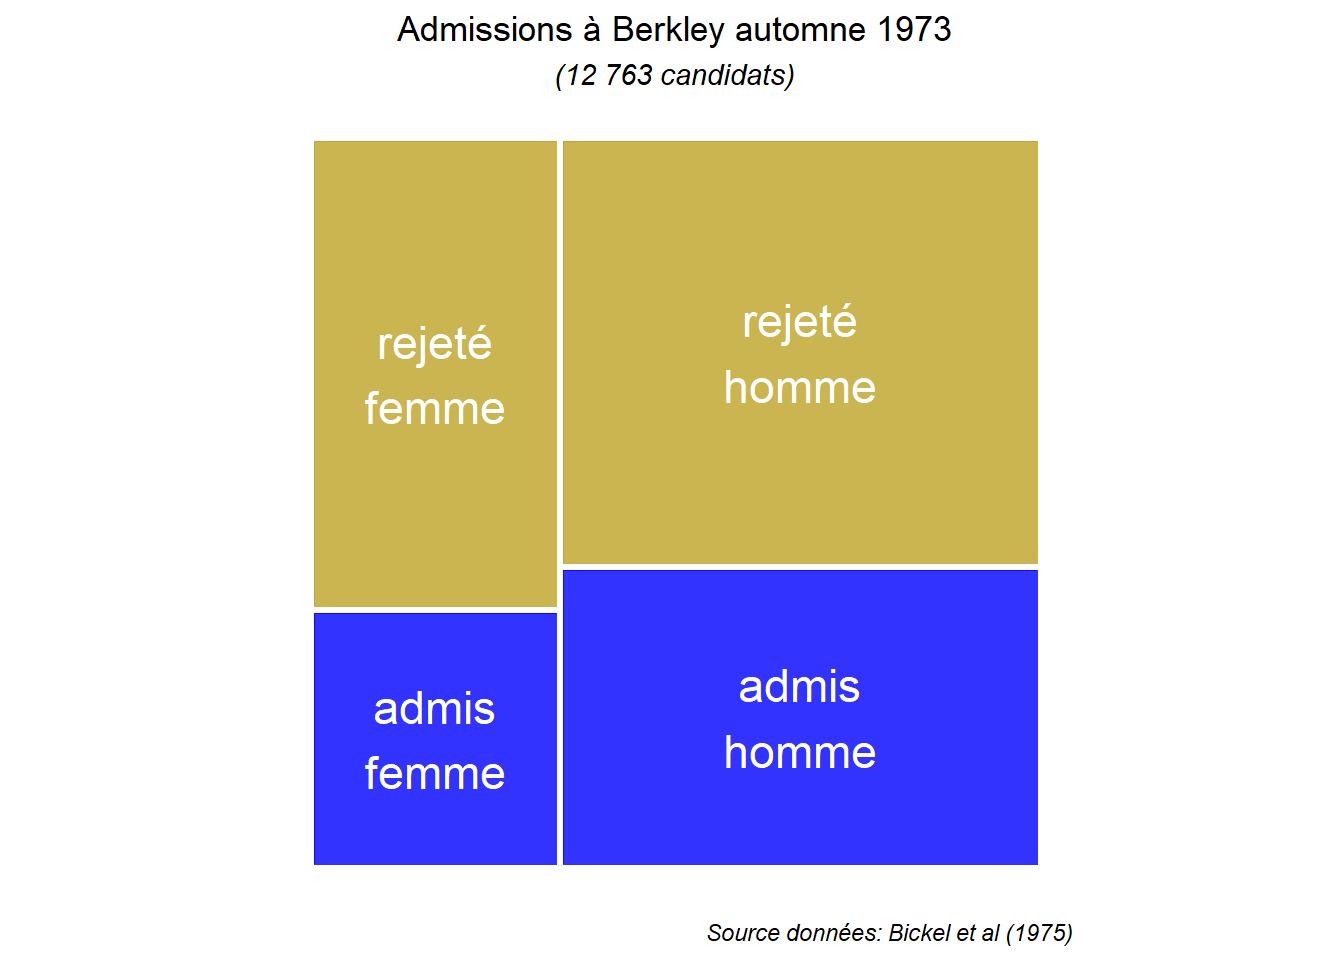
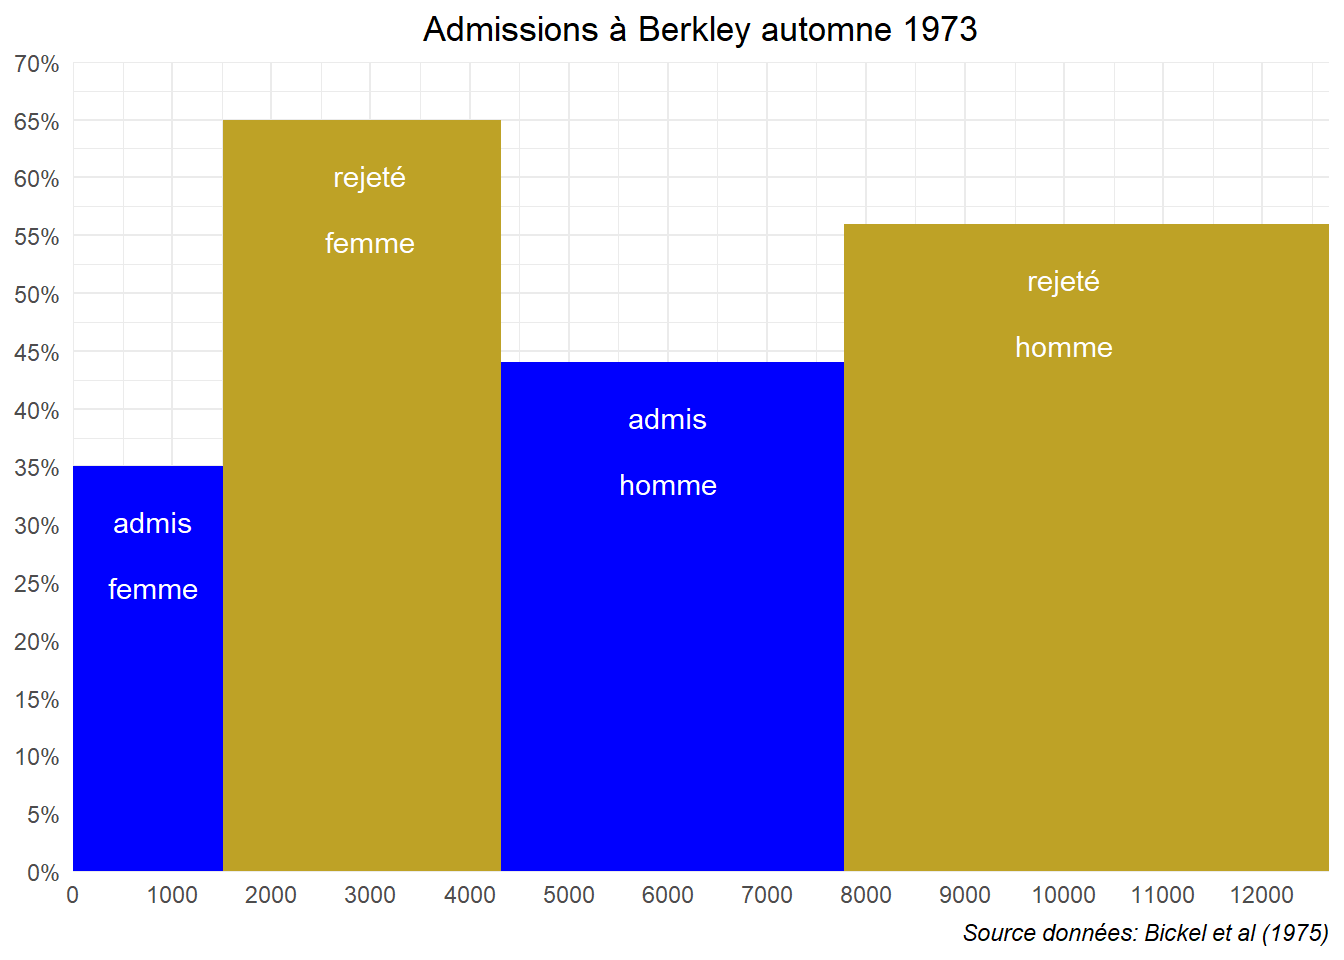
marimekko add1

diff --git a/content/post/2022-01-07-le-diagramme-en-mosaic-et-le-graphe-marimekko-gt6/index.html b/content/post/2022-01-07-le-diagramme-en-mosaic-et-le-graphe-marimekko-gt6/index.html
@@ -21,6 +21,7 @@ tags:
 <p>Tout ceci est un peu abstrait… Prenons un exemple d’utilisation de ce type de graphe pour y voir plus clair et profitons-en pour comparer le rendu avec celui des différentes formes de diagramme à bâtons. Mais, avant de nous lancer, chargeons quelques packages utiles pour la suite.</p>
 <pre class="r"><code>library(tidyverse)
 library(patchwork)
+library(scales)
 library(rvest)
 library(ggmosaic)</code></pre>
 <p>Notez la présence de deux packages que nous n’avons pas encore utilisé rvest et ggmosaic. Le premier sert à scrapper des informations sur internet. Le second, comme son nom l’indique, permet intégrer un <strong>geom_</strong> supplémentaire dans ggplot pour réaliser facilement un diagramme en mosaïque.</p>
@@ -39,16 +40,16 @@ dat1</code></pre>
 <p>L’information obtenue doit être retravailler pour permettre son traitement. Vous voudrions simplement une data frame avec une colonne pour le sexe des candidats et une pour leur statut (admis ou rejeté). Utilisons la fonction <strong>rep()</strong> pour générer les observations correspondant et vérifions si le résultat est conforme au tableau que nous avons scrappé avec les fonctions <strong>table()</strong> et <strong>addmargins()</strong>.</p>
 <pre class="r"><code>dat1&lt;-data.frame(
   sexe=c(rep(&#39;homme&#39;,8442),rep(&#39;femme&#39;,4321)),
-  statut=c(rep(&#39;admis&#39;,round(8442*0.41)),
-                  rep(&#39;rejeté&#39;,round(8442*0.59)),
-                  rep(&#39;admis&#39;,round(4321*0.35)),
-                  rep(&#39;rejeté&#39;,round(4321*0.65))))
+  statut=c(rep(&#39;admis&#39;,round(8442*0.44)),
+           rep(&#39;rejeté&#39;,round(8442*0.56)),
+           rep(&#39;admis&#39;,round(4321*0.35)),
+           rep(&#39;rejeté&#39;,round(4321*0.65))))
 addmargins(table(dat1))</code></pre>
 <pre><code>##        statut
 ## sexe    admis rejeté   Sum
 ##   femme  1512   2809  4321
-##   homme  3461   4981  8442
-##   Sum    4973   7790 12763</code></pre>
+##   homme  3714   4728  8442
+##   Sum    5226   7537 12763</code></pre>
 <p>Maintenant que nous avons nos données, essayons d’illustrer la différence hommes/femmes concernant le taux d’admission à Berkley. Commençons par un diagramme à bâtons juxtaposés. Il s’obtient grâce au <strong>geom_bar()</strong> et l’option <em>position</em> “dodge”. Réalisons également quelques mises en formes de manière obtenir le graphe le plus parlant possible. Retenons notamment les couleurs de l’université (bleu et marron claire) pour nos barres.</p>
 <pre class="r"><code>ggplot(dat1,aes(x=sexe,fill=statut))+
   geom_bar(position=&#39;dodge&#39;)+
@@ -96,6 +97,7 @@ ggplot(dat1,aes(x=sexe,fill=statut))+
        caption=&#39;Source données: Bickel et al (1975)&#39;,
        y=&#39;Effectif&#39;)+
   scale_fill_manual(values=c(&#39;#0000FF&#39;,&#39;#BEA226&#39;))+
+  scale_y_continuous(labels=label_percent(accuracy = NULL))+
   theme_minimal()+
   theme(plot.title = element_text(hjust=0.5),
         plot.caption = element_text(face=&#39;italic&#39;),
@@ -104,7 +106,35 @@ ggplot(dat1,aes(x=sexe,fill=statut))+
         legend.position=&#39;none&#39;)</code></pre>
 <p><img src="{{< blogdown/postref >}}index_files/figure-html/unnamed-chunk-6-1.png" width="672" /></p>
 <p>Cette fois, la différence de taux d’admission est bien mise en évidence. On voit que prés de 35% des candidates sont admises tandis que prés de 40% des candidats sont admis. On perd cependant en partie l’information concernant la taille des groupes hommes/femmes. Il ne reste que les indications textuelles que nous avons ajoutées pour intégrer cette information.</p>
-<p>Un diagramme en mosaïque permet de remédier au problème en mettant en évidence à la fois la différence de tailles en proportion des groupes hommes/femmes et admis/rejeté. Pour le mettre en oeuvre, utilisons le <strong>geom_mosaic()</strong> du package ggmosaic. Indiquons comme esthétique (<strong>aes()</strong>) pour x l’intersection entre statut et sexe. Cela est rendu possible par la fonction <strong>product()</strong>. Indiquons également que nous souhaitons que les différents éléments du graphe soient colorés en fonction de statut (bleu pour les admis et marron pour les rejetés).</p>
+<p>Le diagramme de Marimekko intégre l’information sur les effectifs en faisant varier la largeur des barres en fonction de ceux-ci. Présentons nos données à l’aide de ce type de graphe. Pour ce faire, nous allons utiliser le <strong>geom_rect()</strong> qui permet de tracer des rectangles à partir de l’indication des valeurs minimums et maximums des coordonnées associés pour chaque figure (x et y). Commençons par restructurer la base pour faciliter sa construction.</p>
+<pre class="r"><code>dat1_d&lt;-data.frame(
+  sex= c(&#39;femme&#39;, &#39;femme&#39;,&#39;homme&#39;, &#39;homme&#39;),
+  stat=c(&#39;admis&#39;,&#39;rejeté&#39;,&#39;admis&#39;,&#39;rejeté&#39;),
+  tx_reu = c(0.35, 0.65, 0.44, 0.56),
+  effectif = c(1512, 2809, 3461, 4891))</code></pre>
+<p>Ceci fait, réalisons le graphe.</p>
+<pre class="r"><code>ggplot(dat1_d, aes(fill = stat)) +
+  geom_rect(aes(xmin = cumsum(c(0,effectif[1:3])),
+                xmax = cumsum(effectif),
+                ymin = 0, ymax = tx_reu))+
+  geom_text(aes(label = stat,y=tx_reu,x=c(800,3000,6000,10000)),
+            vjust = 3,colour = &quot;white&quot;)+
+  geom_text(aes(label = sex,y=tx_reu,x=c(800,3000,6000,10000)),
+            vjust = 6,colour = &quot;white&quot;)+
+  scale_x_continuous(breaks = seq(0,13000,1000))+
+  scale_y_continuous(breaks = seq(0,0.70,0.05),limits = c(0,0.7),
+                     labels=label_percent(accuracy = NULL))+
+  scale_fill_manual(values=c(&#39;#0000FF&#39;,&#39;#BEA226&#39;))+
+  labs(title=&#39;Admissions à Berkley automne 1973&#39;,      
+       caption=&#39;Source données: Bickel et al (1975)&#39;)+
+  coord_cartesian(expand=FALSE)+
+  theme_minimal()+
+  theme(plot.title = element_text(hjust=0.5),
+        plot.caption = element_text(face=&#39;italic&#39;),
+        axis.title= element_blank(),
+        legend.position=&#39;none&#39;)</code></pre>
+<p><img src="{{< blogdown/postref >}}index_files/figure-html/unnamed-chunk-8-1.png" width="672" /></p>
+<p>L’ensemble est plus parlant. Un diagramme en mosaïque apparaît encore plus parlant. Il met en évidence à la fois la différence de tailles en proportion des groupes hommes/femmes et admis/rejeté. Pour le mettre en oeuvre, utilisons le <strong>geom_mosaic()</strong> du package ggmosaic. Indiquons comme esthétique (<strong>aes()</strong>) pour x l’intersection entre statut et sexe. Cela est rendu possible par la fonction <strong>product()</strong>. Indiquons également que nous souhaitons que les différents éléments du graphe soient colorés en fonction de statut (bleu pour les admis et marron pour les rejetés).</p>
 <pre class="r"><code>ggplot(dat1) + 
   geom_mosaic(aes(x=product(statut,sexe),fill=statut),position = &#39;identity&#39;)+
   labs(title=&#39;Admissions à Berkley automne 1973&#39;,
@@ -121,7 +151,7 @@ ggplot(dat1,aes(x=sexe,fill=statut))+
 ## Please use `unite()` instead.
 ## This warning is displayed once every 8 hours.
 ## Call `lifecycle::last_lifecycle_warnings()` to see where this warning was generated.</code></pre>
-<p><img src="{{< blogdown/postref >}}index_files/figure-html/unnamed-chunk-7-1.png" width="672" /></p>
+<p><img src="{{< blogdown/postref >}}index_files/figure-html/unnamed-chunk-9-1.png" width="672" /></p>
 <p>Les proportions sont bien rendues dans ce nouveau graphe. On voit clairement que le nombre de femmes candidates représente moins d’un tiers de l’ensemble et qu’elles sont admises à un taux un peu plus élevé que 33% alors que les hommes qui représentent plus des deux tiers de l’ensemble sont admis à un taux supérieur (plus proche des 40%).</p>
 <p>Sans indications chiffrées, le diagramme en mosaïque rend bien compte de la relation entre les deux variables. Comme tout les graphes issus de ggplot, il peut être personnalisé. On peut notamment utiliser <strong>geom_mosaic_text()</strong> pour faire apparaître la valeur des différentes variables à l’intérieur du graphe et non sur les axes.</p>
 <pre class="r"><code>ggplot(dat1) + 
@@ -139,20 +169,20 @@ ggplot(dat1,aes(x=sexe,fill=statut))+
         axis.text = element_blank(),
         axis.ticks = element_blank(),
         legend.position=&#39;none&#39;)</code></pre>
-<p><img src="{{< blogdown/postref >}}index_files/figure-html/unnamed-chunk-8-1.png" width="672" /></p>
+<p><img src="{{< blogdown/postref >}}index_files/figure-html/unnamed-chunk-10-1.png" width="672" /></p>
 <p>Il y a une différence apparente entre les hommes et les femmes concernant l’admission à Berkley. Mais est-elle statistiquement significative? Pour le savoir, procédons à un test de différences de proportions (basé sur un khi2) à l’aide de la fonction <strong>prop.test()</strong>.</p>
 <pre class="r"><code>table(dat1$statut,dat1$sexe) %&gt;% prop.test() </code></pre>
 <pre><code>## 
 ##  2-sample test for equality of proportions with continuity correction
 ## 
 ## data:  .
-## X-squared = 43.091, df = 1, p-value = 5.224e-11
+## X-squared = 95.421, df = 1, p-value &lt; 2.2e-16
 ## alternative hypothesis: two.sided
 ## 95 percent confidence interval:
-##  -0.07336126 -0.03973609
+##  -0.09997492 -0.06676925
 ## sample estimates:
 ##    prop 1    prop 2 
-## 0.3040418 0.3605905</code></pre>
+## 0.2893226 0.3726947</code></pre>
 <p>La p-value est très petite, on rejette donc largement l’hypothèse d’égalité entre les proportions. La différence est statistiquement significative. On pourrait, sur cette base, conclure à une discrimination basée sur les goûts des jury d’admission qui seraient défavorables au femmes. Néanmoins, si on approfondit l’analyse pour prendre en compte les départements dans lesquels les étudiants ont candidaté, on voit que les choses sont différentes.</p>
 <p>Introduisons cette nouvelles variables dans l’analyse. Pour cela, voyons le second tableau de la page wikipedia. Chargeons-le dans R.</p>
 <pre class="r"><code>url&lt;-&quot;https://en.wikipedia.org/wiki/Simpson%27s_paradox&quot;
@@ -209,7 +239,7 @@ addmargins(table(dat2$sexe,dat2$statut))</code></pre>
         axis.title.x = element_blank(),
         axis.title.y = element_blank(),
         legend.position = &#39;none&#39;) </code></pre>
-<p><img src="{{< blogdown/postref >}}index_files/figure-html/unnamed-chunk-12-1.png" width="672" /></p>
+<p><img src="{{< blogdown/postref >}}index_files/figure-html/unnamed-chunk-14-1.png" width="672" /></p>
 <p>Il semble bien que ce soit le cas. On peut donc continuer l’analyse en intégrant notre nouvelle variable.</p>
 <p>Voyons ce que donne le diagramme mosaïque. Cette fois, la déclaration de l’élément principale à représenter (x) comprendra trois variables (statut, sexe et dep) que l’on introduit conjointement avec la fonction <strong>product()</strong>. Indiquons pour faciliter la lecture que nous ferons varier la couleur (fill) en fonction de statut et le niveau de transparence (alpha) de ces couleurs en fonction de sexe. Utilisons l’option <em>divider</em> pour renforcer les séparations verticales et horizontales dans le graphe.</p>
 <pre class="r"><code>ggplot(dat2) + 
@@ -228,7 +258,7 @@ addmargins(table(dat2$sexe,dat2$statut))</code></pre>
         axis.text.x = element_text(angle = 90, hjust = 1,vjust = 0.5,size=10),
         axis.title.y = element_blank(),
         legend.position = &#39;none&#39;) </code></pre>
-<p><img src="{{< blogdown/postref >}}index_files/figure-html/unnamed-chunk-13-1.png" width="672" /></p>
+<p><img src="{{< blogdown/postref >}}index_files/figure-html/unnamed-chunk-15-1.png" width="672" /></p>
 <p>On voit que les femmes ne sont pas moins fréquemment admises dans tout les départements. Leur taux d’admission est plus important que celui des hommes dans les départements A, B, D et F. Néanmoins, elles sont proportionnellement moins nombreuses à y postuler. Elles sont plus nombreuses à postuler dans les département C et E où le taux d’admission est en générale relativement bas et où elles sont légèrement moins fréquemment reçues que les hommes. On peut dire qu’elles s’orientent sur les départements les plus sélectifs et donc sont plus souvent rejetées.</p>
 <p>Bref, les choses semblent plus compliquées. Voyons ce qu’il en ait si on pratique des tests statistiques. Commençons par le simple test de différence de proportions.</p>
 <pre class="r"><code>table(dat2$statut,dat2$sexe) %&gt;% prop.test() </code></pre>
@@ -344,7 +374,7 @@ m1+m2+plot_annotation(
   theme(plot.title = element_text(hjust=0.5),
         plot.subtitle = element_text(hjust=0.5,face=&#39;italic&#39;),
         plot.caption= element_text(face=&#39;italic&#39;))</code></pre>
-<p><img src="{{< blogdown/postref >}}index_files/figure-html/unnamed-chunk-18-1.png" width="672" /></p>
+<p><img src="{{< blogdown/postref >}}index_files/figure-html/unnamed-chunk-20-1.png" width="672" /></p>
 <p>Les diagrammes en mosaïque sont performant pour illustrer les liens entre variables catégorielles. Ils donnent une vision claire des effectifs croisés au travers de la différence de surface des rectangles qui les composent. Ils présentent néanmoins des limites. La première est que l’œil humain n’est pas très performant lorsqu’il s’agit de relever de faibles différences de surfaces. Il n’est pas non plus très bon pour évaluer les proportions de ces différences. La surface correspondant aux hommes admis est 3,15 fois celle des femmes admises dans le graphe sans les départements ((1197x2691)/(557x1835))… La seconde limites est qu’ils deviennent vite illisibles si les variables mobilisées intègrent trop de catégories.</p>
 <div class="footnotes footnotes-end-of-document">
 <hr />
